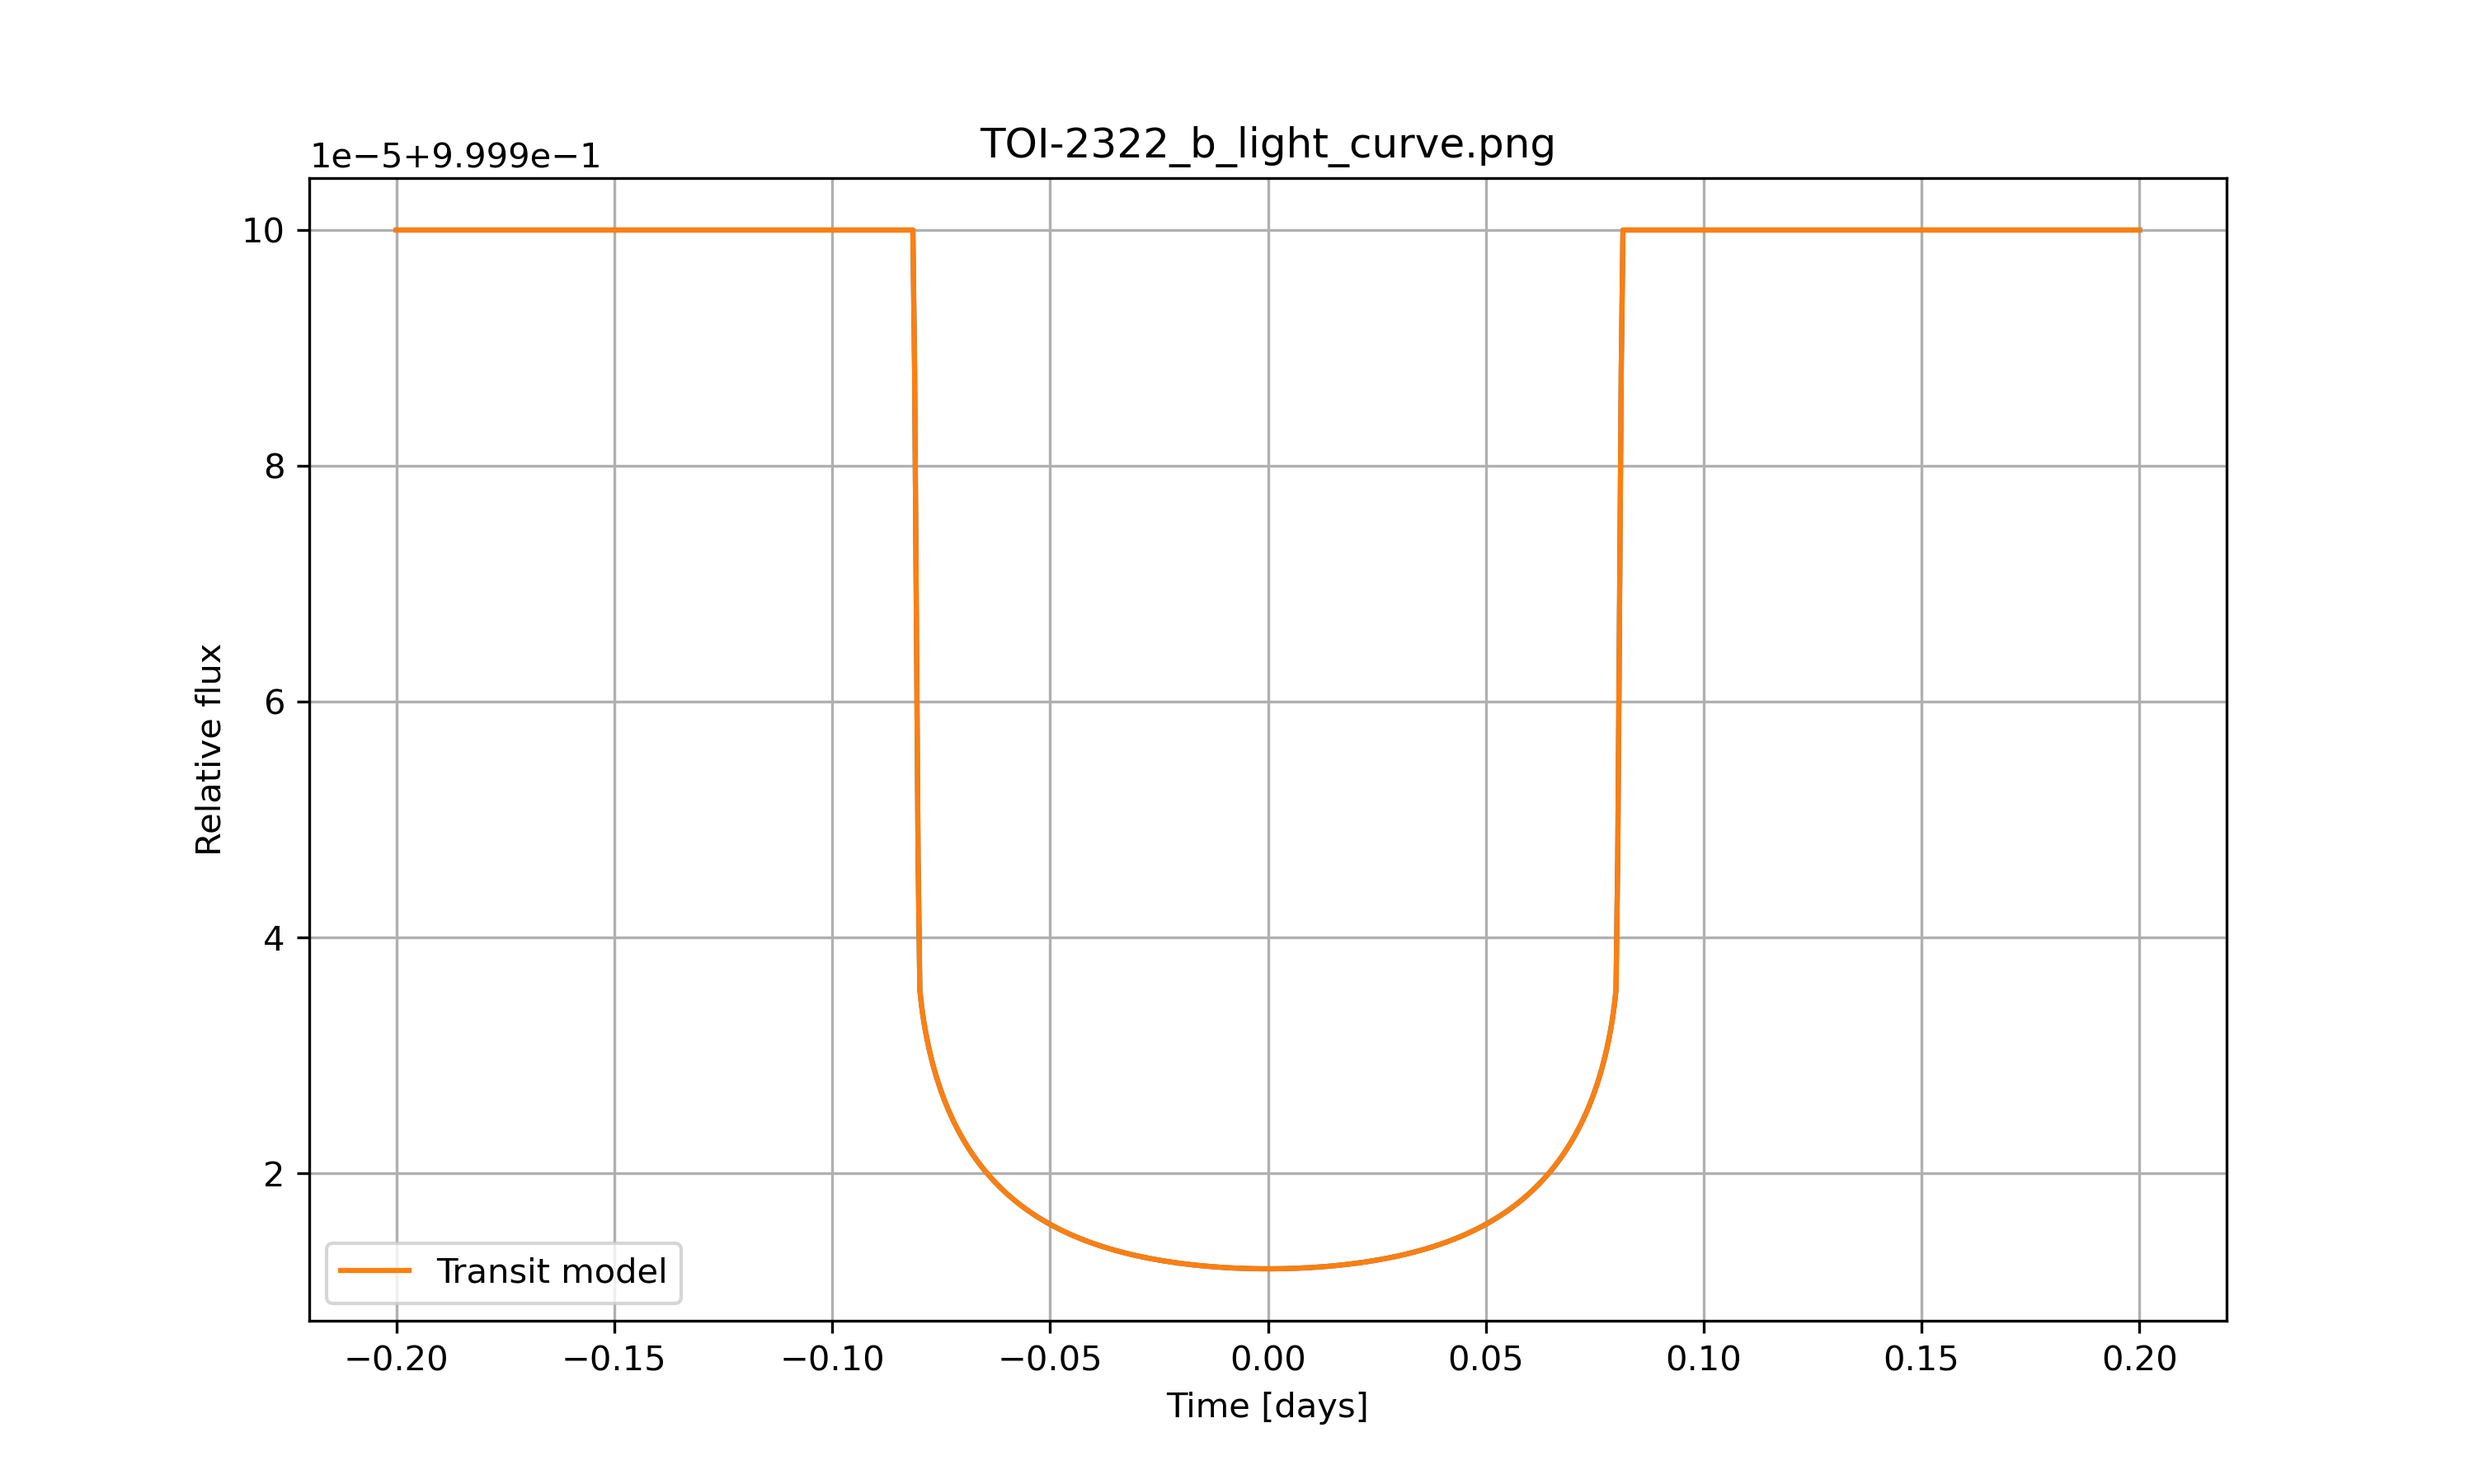
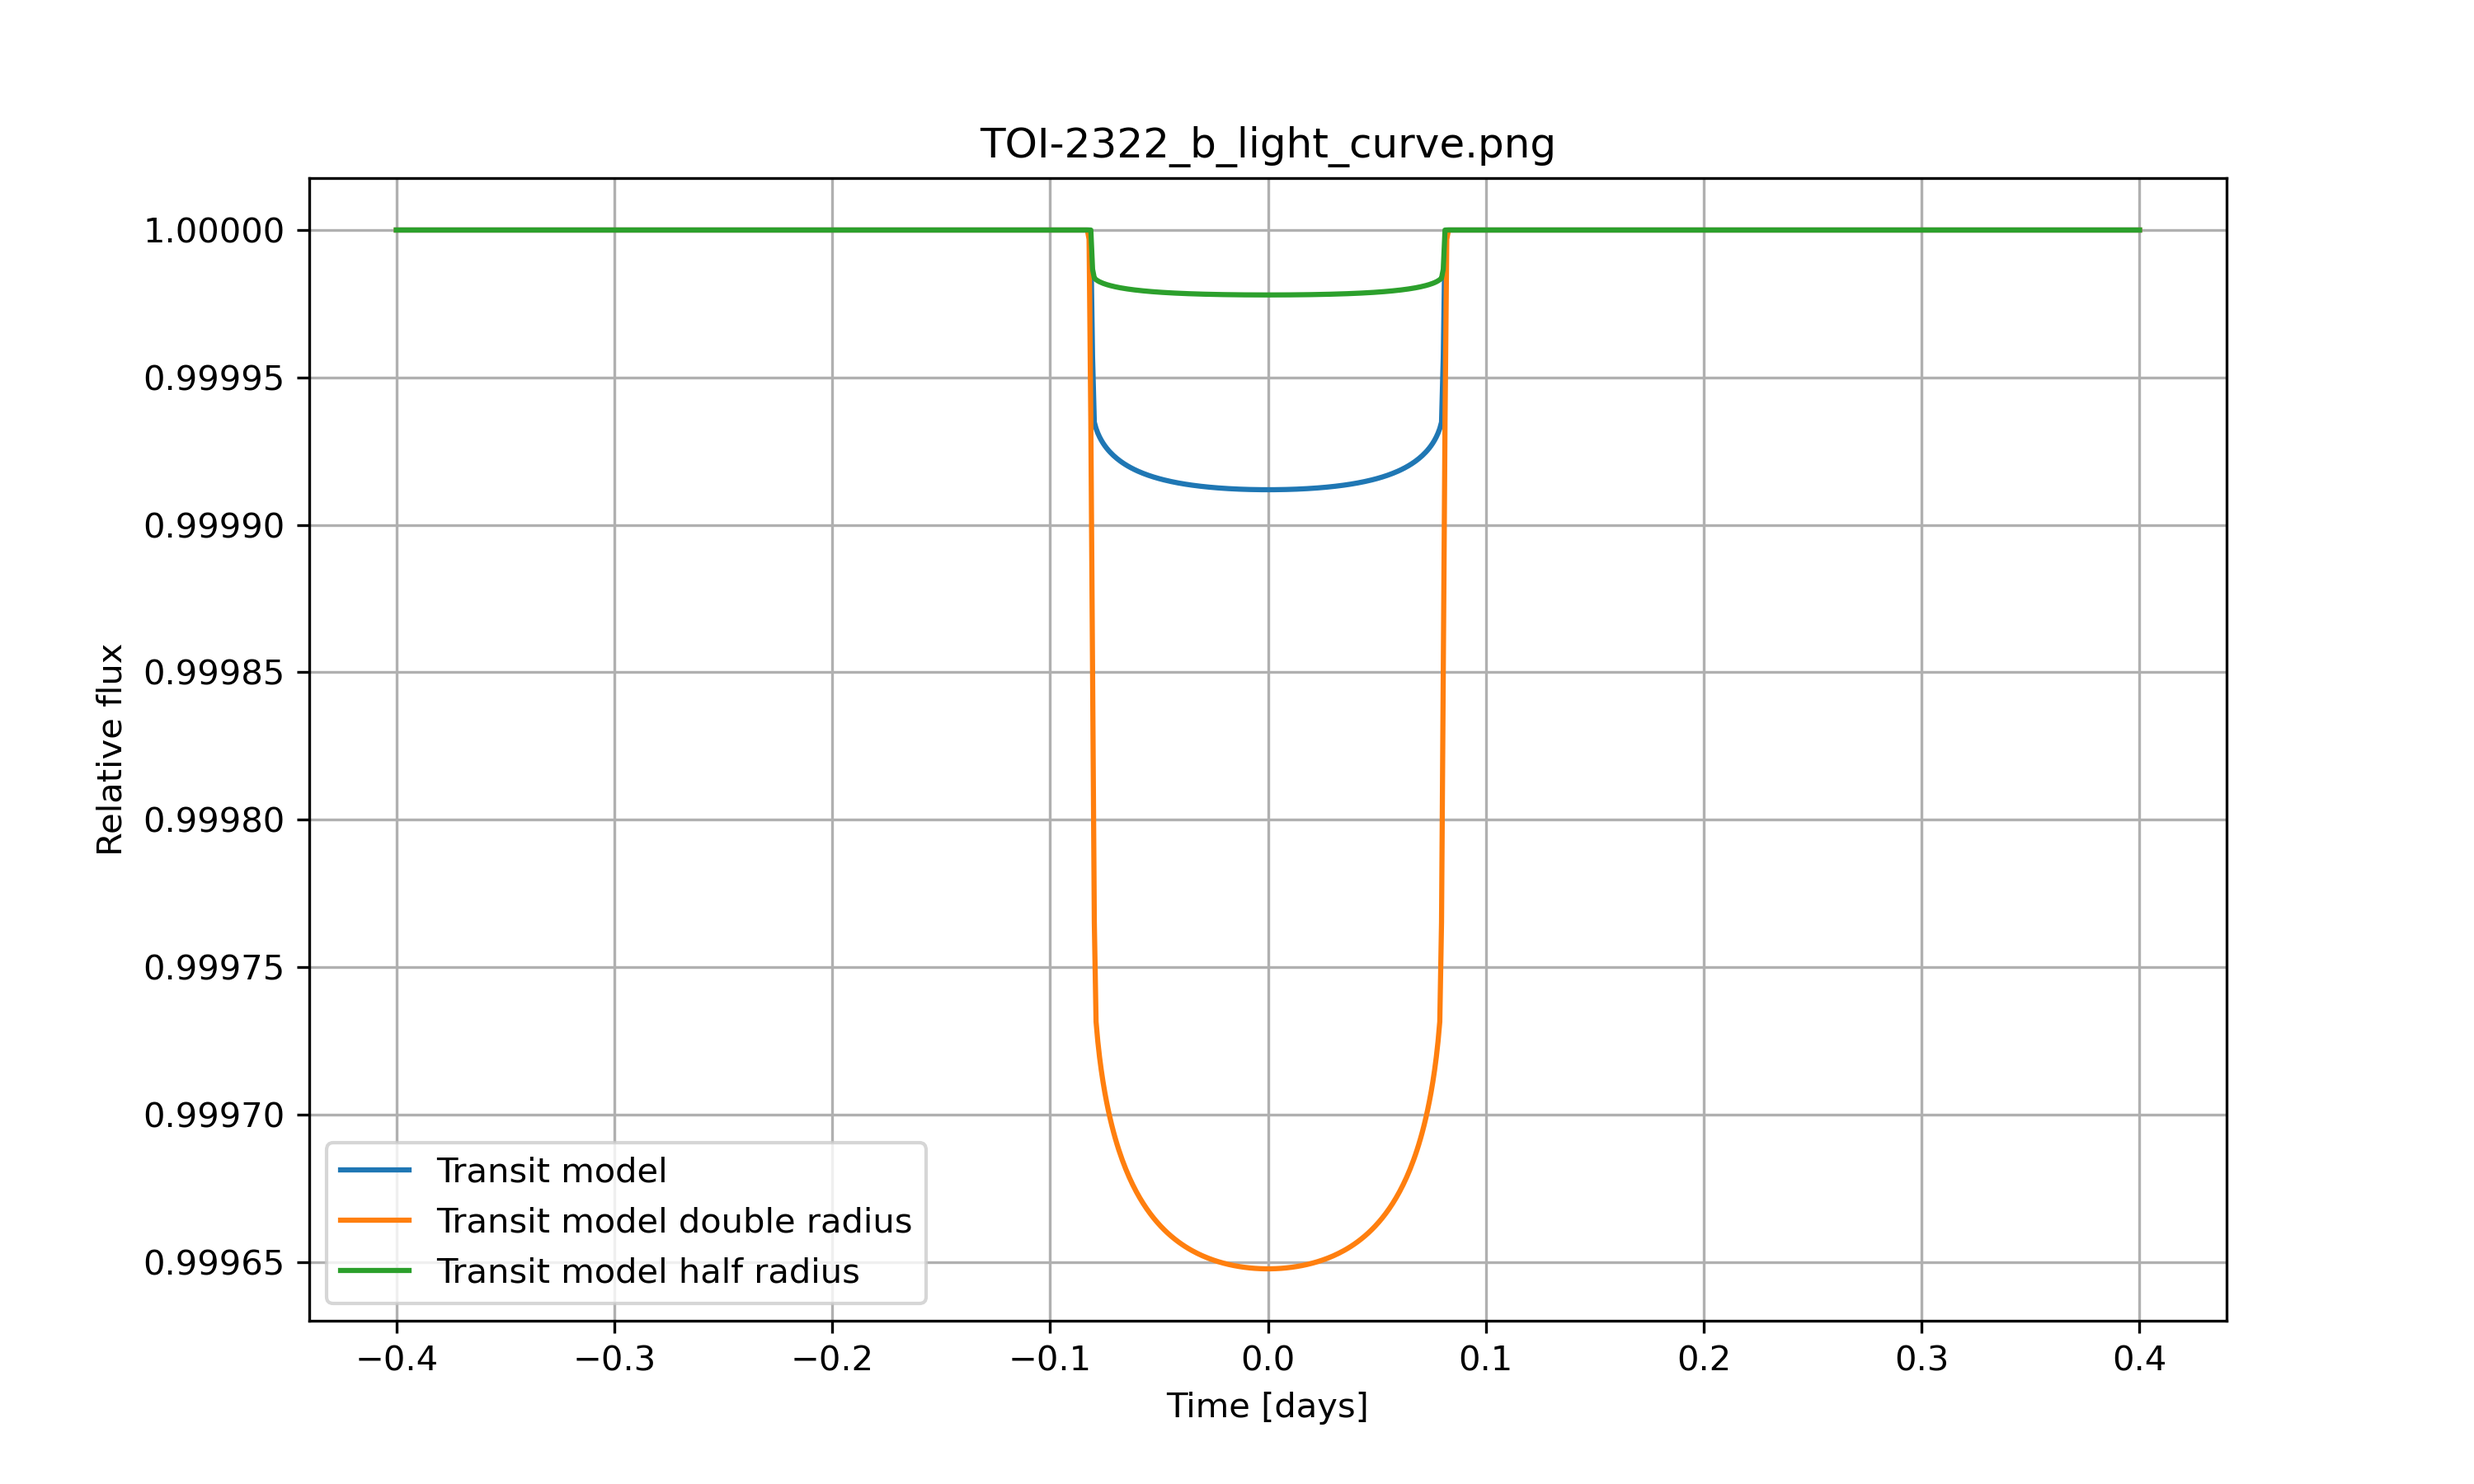
trasit_new

diff --git a/src/daneel/detection/transit_method.py b/src/daneel/detection/transit_method.py
@@ -30,23 +30,39 @@ def transit(args, planet_name):
     params.planet_name= args['planet_name']
 
     
-    t = np.linspace(-0.2, 0.2, 1000)
+    t = np.linspace(-0.06, 0.06, 1000)
     
-    m = batman.TransitModel(params, t)	        #initializes model
-    flux = m.light_curve(params)
+    m = batman.TransitModel(params, t)	        #initializes model    
+    flux_normal = m.light_curve(params)
+    
+    params.rp = params.rp *2
+
+    m = batman.TransitModel(params, t)	        #initializes model    
+    flux_double = m.light_curve(params)
+
+    params.rp = params.rp *0.25
+
+    m = batman.TransitModel(params, t)	        #initializes model    
+    flux_half = m.light_curve(params)
+
+    
+    
 
 
     #### ######  ###### PLOT ###### ###### ######
     
     plt.figure(figsize=(10, 6))
-    plt.plot(t, flux)
+
     plt.title(f"{planet_name}_light_curve.png")
     
     plt.grid()
     plt.xlabel("Time [days]")
     plt.ylabel("Relative flux")
    
-    plt.plot(t, flux, label="Transit model")
+    plt.plot(t, flux_normal, label="Transit model")
+    plt.plot(t, flux_double, label="Transit model double radius")
+    plt.plot(t, flux_half, label="Transit model half radius")
+    
     plt.legend()
     
     
@@ -54,7 +70,7 @@ def transit(args, planet_name):
     plt.show()
 
 
-planets_target = ["TOI-2322_b" ]
+planets_target = ["TOI-6158_b" ]
 
 
 for n, p in enumerate(planets_target):
